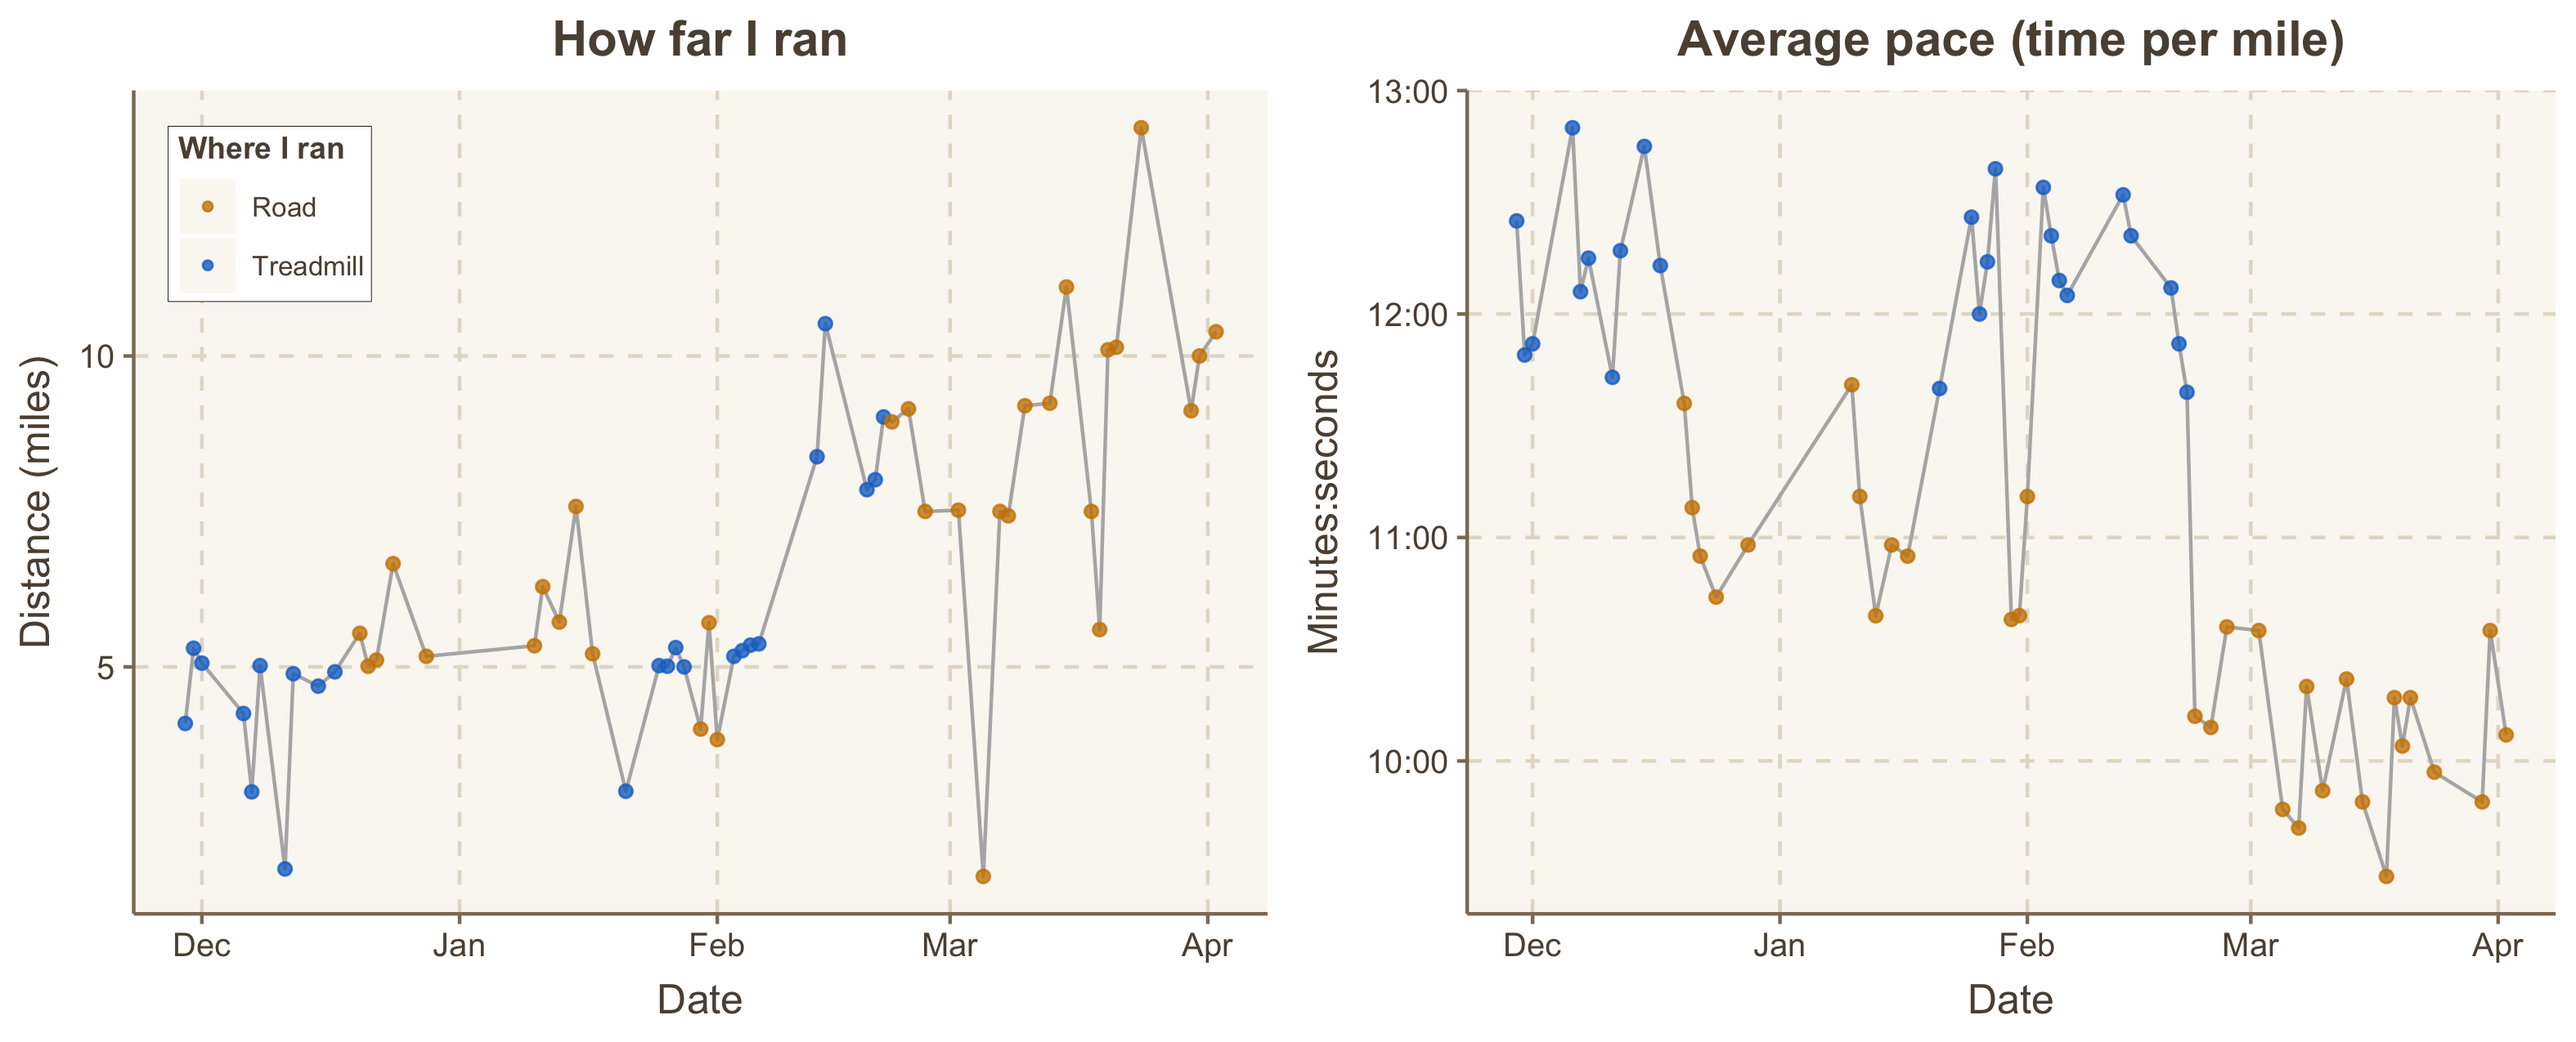
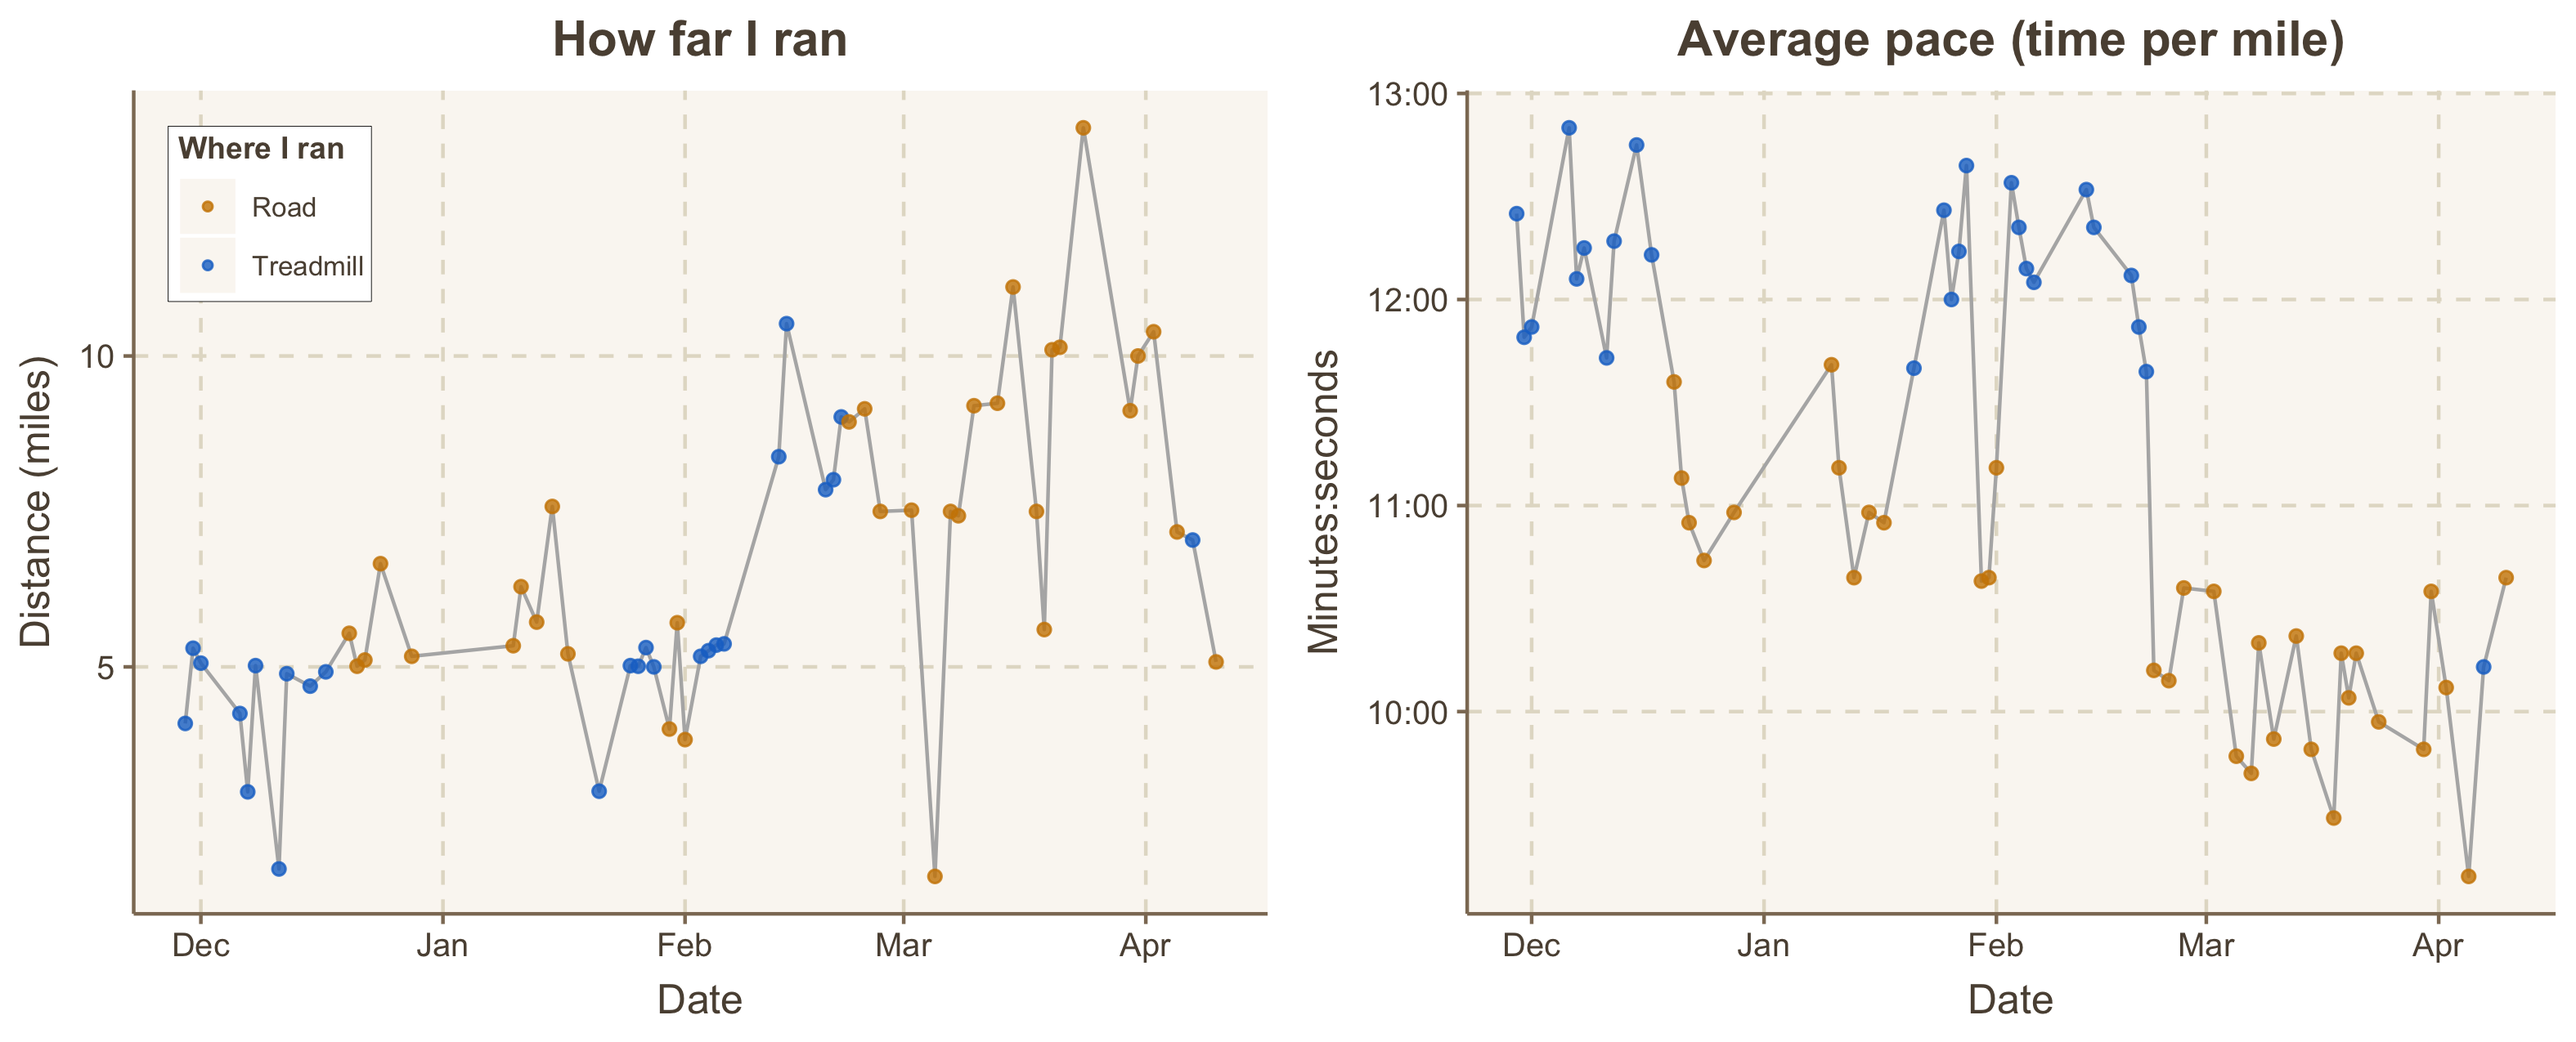
4/5/22, 4/7/22, 4/10/22

diff --git a/README.md b/README.md
@@ -25,7 +25,7 @@ ggarrange(p1, p2, nrow=1)
 sum(runningData$Miles)
 ```
 
-    ## [1] 358.14
+    ## [1] 377.43
 
 Average distance during the last 10 runs:
 
@@ -33,4 +33,4 @@ Average distance during the last 10 runs:
 mean(tail(runningData$Miles, 10))
 ```
 
-    ## [1] 9.687
+    ## [1] 8.831
